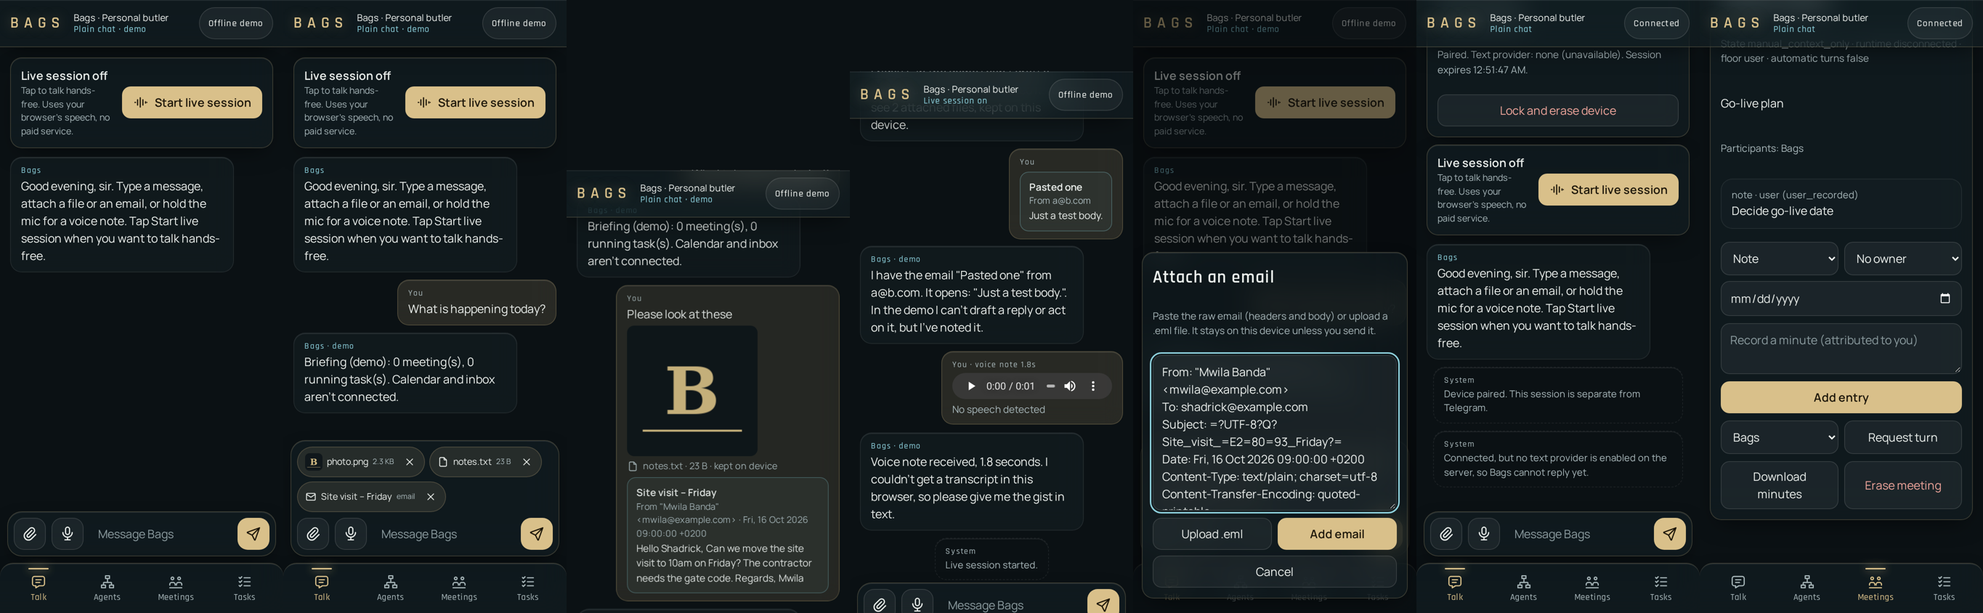
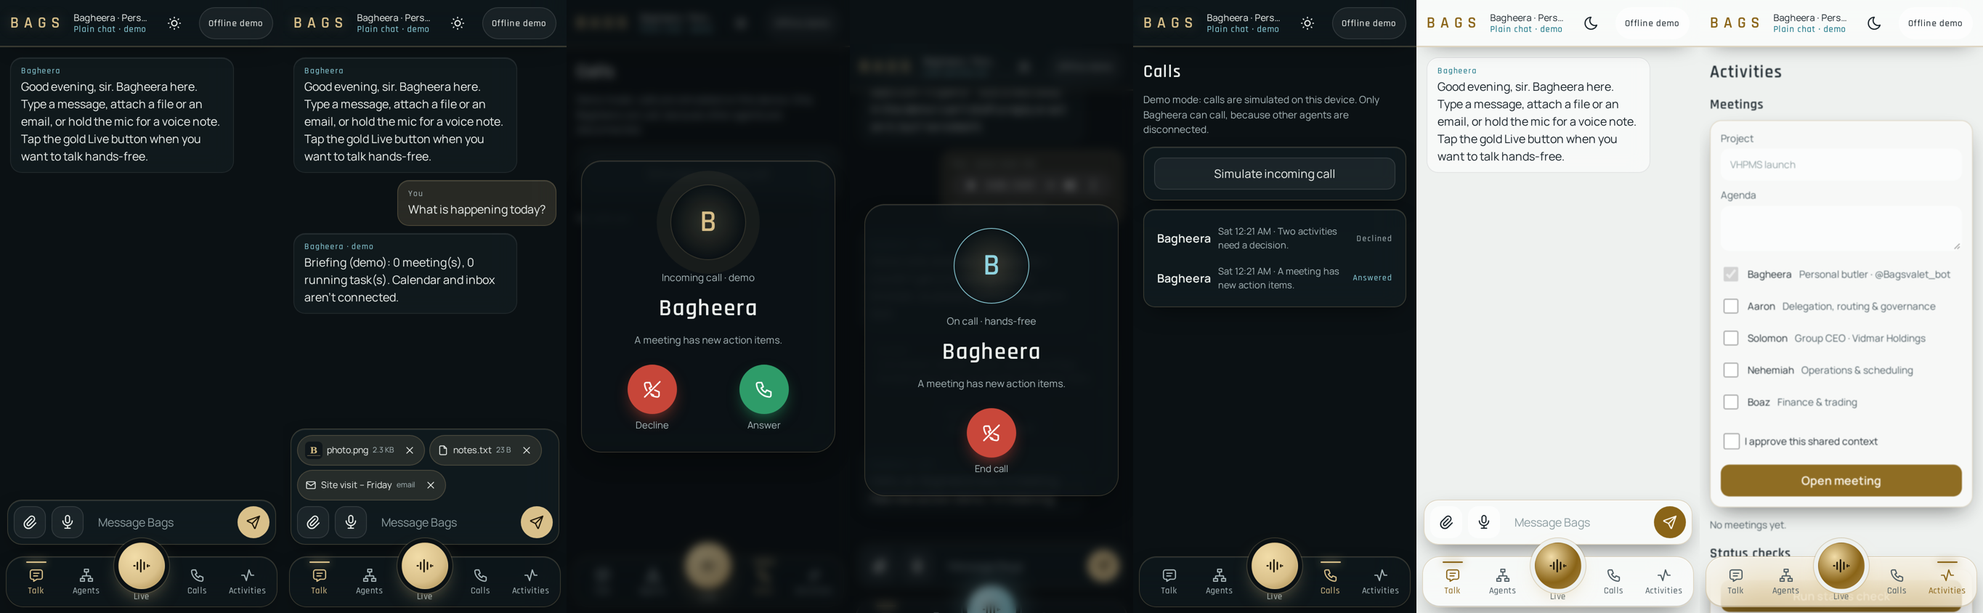
feat(valet): centre live button, Activities, light mode, Calls with answer/decline, Bagheera persona, CONNECTING.md

diff --git a/valet/static/app.js b/valet/static/app.js
@@ -1,4 +1,6 @@
 'use strict';
+/* theme: persisted, applied before paint */
+const root=document.documentElement;const setTheme=t=>{root.dataset.theme=t;localStorage.theme=t;const b=document.querySelector('#themeBtn');if(b){b.setAttribute('aria-label',t=='light'?'Switch to dark mode':'Switch to light mode');document.querySelector('#themeIcon').setAttribute('href',t=='light'?'#i-moon':'#i-sun')}};setTheme(localStorage.theme||'dark');
 const $=s=>document.querySelector(s),esc=t=>String(t??'').replace(/[&<>"']/g,c=>({'&':'&amp;','<':'&lt;','>':'&gt;','"':'&quot;',"'":'&#39;'}[c]));
 const kb=n=>n<1024?n+' B':n<1048576?(n/1024).toFixed(1)+' KB':(n/1048576).toFixed(1)+' MB';
 // Deployment base: served by the companion backend under /valet/, so the API lives one level up (keeps any /bags-mark/ proxy prefix).
@@ -30,7 +32,7 @@ function openWS(){if(B.mode!='server'||!B.token)return;closeWS();const w=new Web
  w.onopen=()=>w.send(JSON.stringify({type:'auth',token:B.token}));
  w.onmessage=ev=>{if(typeof ev.data!='string')return;const m=JSON.parse(ev.data);
   if(m.type=='ready'){B.wsReady=true;B.provider=m.provider;setConn();if(!m.provider?.capabilities?.text)sys('Connected, but no text provider is enabled on the server, so Bags cannot reply yet.')}
-  else if(m.type=='text'||m.type=='transcript.output'){botText(m.text,'Bags · '+(B.provider?.name||'server'))}
+  else if(m.type=='text'||m.type=='transcript.output'){botText(m.text,P.name+' · '+(B.provider?.name||'server'))}
   else if(m.type=='turn.complete'){flushBot()}
   else if(m.type=='error'){flushBot();sys(ERR[m.error]||('Server error: '+m.error))}};
  w.onclose=e=>{B.ws=null;B.wsReady=false;setConn();if(e.code==4401){B.token=null;setConn();sys('Session expired. Pair again.')}};
@@ -43,20 +45,20 @@ function flushBot(){clearTimeout(botTimer);if(!botBuf)return;const t=botBuf;botB
 /* ================= roster ================= */
 const sp=([id,name,role])=>({id,name,role,live:false});
 let roster=null;
-async function loadRoster(){if(B.mode=='server'&&B.token){const r=await http('api/agents');if(r.ok){roster=r.data.agents.map(a=>({id:a.id,name:a.name,role:a.role||a.route,live:a.id=='bags'}));tree();return}}roster=null;tree()}
+async function loadRoster(){if(B.mode=='server'&&B.token){const r=await http('api/agents');if(r.ok){roster=r.data.agents.map(a=>({id:a.id,name:a.id=='bags'?P.name:a.name,role:a.role||a.route,live:a.id=='bags'}));tree();return}}roster=null;tree()}
 const allAgents=()=>roster||[ORG.personal,ORG.governance,...ORG.ceos.flatMap(c=>[c,...c.specialists.map(sp)])];
 function tree(){const row=a=>`<button class="agent" data-id="${esc(a.id)}"><b>${esc(a.name)}</b><span class="r">${esc(a.role)}</span><span class="st ${a.live?'live':''}">${a.live?'Available':'Disconnected'}</span></button>`;
  $('#tree').innerHTML=roster?`<div class="glass unit">${roster.map(row).join('')}</div>`:`<div class="glass unit">${row(ORG.personal)}${row(ORG.governance)}</div>`+ORG.ceos.map(c=>`<div class="glass unit">${row(c)}<div class="sub">${c.specialists.map(s=>row(sp(s))).join('')}</div></div>`).join('');
  const all=allAgents();$('#tree').querySelectorAll('[data-id]').forEach(el=>el.onclick=()=>pick(all.find(a=>a.id==el.dataset.id)));
  $('#mParts').innerHTML=all.map(a=>`<label><input type="checkbox" value="${esc(a.id)}" ${a.id==all[0].id?'checked disabled':''}> ${esc(a.name)} <span class="note">${esc(a.role)}</span></label>`).join('')}
-let agent={...ORG.personal},logs={};
+const P={name:ORG.personal.name,short:ORG.personal.short||ORG.personal.name};let agent={...ORG.personal},logs={};
 async function pick(a){stopLive();if(B.mode=='server'&&B.token){const r=await http(`api/agents/${encodeURIComponent(a.id)}/session`,{method:'POST',body:{}});if(r.ok){B.token=r.data.token;openWS()}}
  agent=a;$('#agentHdr').textContent=a.name+' · '+a.role+(a.live?'':' (disconnected)');$('#msg').disabled=!a.live;$('#msg').placeholder=a.live?'Message '+a.name:a.name+' is disconnected';render();go('chat')}
 
 /* ================= bottom tab bar ================= */
 function go(tab){document.querySelectorAll('.tabbar button').forEach(b=>{const on=b.dataset.tab==tab;b.classList.toggle('on',on);on?b.setAttribute('aria-current','page'):b.removeAttribute('aria-current')});
  document.querySelectorAll('.tab').forEach(s=>s.classList.toggle('on',s.id==tab));document.body.classList.toggle('no-dock',tab!='chat');
- if(tab=='tasks')loadTasks();if(tab=='meet')loadMeetings();if(tab=='chat')scrollEnd();else scrollTo(0,0)}
+ if(tab=='act'){loadTasks();loadMeetings()}if(tab=='calls')renderCalls();if(tab=='chat')scrollEnd();else scrollTo(0,0)}
 document.querySelectorAll('.tabbar button').forEach(b=>b.onclick=()=>go(b.dataset.tab));
 
 /* ================= chat log ================= */
@@ -113,7 +115,7 @@ async function send(text,meta={}){text=(text||'').trim();const list=atts;if(!tex
  full=full.trim().slice(0,4096)||'[voice note with no transcript]';
  if(B.mode=='server'){if(!B.token)return sys('Pair this device first: tap the status button at the top.');if(!B.wsReady)return sys('Not connected to the server yet. Try again in a moment.');B.ws.send(JSON.stringify({type:'text',text:full}));return}
  const r=await mockApi('chat',{method:'POST',body:{text:full,...meta,files:files.length,emails:emails.map(e=>({subject:e.subject,from:e.from,body:e.body}))}});
- add('bot',r.data.reply,'Bags · demo');if(live.on||meta.voice)say(r.data.reply)}
+ add('bot',r.data.reply,P.name+' · demo');if(live.on||meta.voice)say(r.data.reply)}
 const strip=a=>({kind:a.kind,name:a.name,size:a.size,thumb:a.thumb,status:a.status,subject:a.subject,from:a.from,date:a.date,body:a.body||''});
 $('#composer').onsubmit=e=>{e.preventDefault();const t=$('#msg').value;$('#msg').value='';send(t);$('#msg').focus()};
 
@@ -125,10 +127,9 @@ function listen(){if(!live.on||live.speaking||!SR)return;const r=new SR();live.r
  r.onresult=e=>{let f='',p='';for(const x of e.results)x.isFinal?f+=x[0].transcript:p+=x[0].transcript;$('#partial').textContent=p;if(f.trim()){$('#partial').textContent='';send(f)}};
  r.onerror=e=>{if(e.error=='not-allowed'||e.error=='service-not-allowed'){stopLive();sys('Microphone permission denied, so the live session stopped. Typing still works.')}};
  r.onend=()=>{if(live.on&&!live.speaking)setTimeout(listen,300)};try{r.start()}catch{}}
-function paintLive(){$('.livebar').classList.toggle('on',live.on);$('#liveBtn span').textContent=live.on?'End live session':'Start live session';$('#liveBtn').setAttribute('aria-pressed',live.on);
- $('#liveTitle').textContent=live.on?'Live session on':'Live session off';$('#liveNote').textContent=live.on?'Listening. Speak, pause, and Bags answers aloud. The mic pauses while Bags talks.':"Tap to talk hands-free. Uses your browser's speech, no paid service.";setConn()}
-function startLive(){if(!SR){sys('This browser has no speech recognition, so a live session is not possible here. Try Chrome on Android. Typing and voice notes still work.');return}
- if(!agent.live)return sys(agent.name+' is disconnected.');live.on=true;paintLive();sys('Live session started.');listen()}
+function paintLive(){$('#liveBtn').setAttribute('aria-pressed',live.on);$('#liveBtn').setAttribute('aria-label',live.on?'End live session':'Start live session');$('#liveLbl').textContent=live.on?'End live':'Live';$('.fab-slot').classList.toggle('on',live.on);setConn()}
+function startLive(quiet){go('chat');if(!SR){sys('This browser has no speech recognition, so a live session is not possible here. Try Chrome on Android. Typing and voice notes still work.');return}
+ if(!agent.live)return sys(agent.name+' is disconnected.');live.on=true;paintLive();if(!quiet){sys('Live session started. Speak, pause, and '+P.short+' answers aloud. The mic pauses while '+P.short+' talks.');listen()}}
 function stopLive(){if(!live.on)return;live.on=false;try{live.rec&&live.rec.abort()}catch{}tts&&tts.cancel();live.speaking=false;$('#partial').textContent='';paintLive();sys('Live session ended.');B.ws?.readyState==1&&B.ws.send('{"type":"interrupt"}')}
 $('#liveBtn').onclick=()=>live.on?stopLive():startLive();
 document.addEventListener('visibilitychange',()=>{if(document.hidden){stopLive();if(mr)recStop(true)}});// sensors never keep running in background
@@ -179,8 +180,41 @@ async function openMeeting(id){const m=(await api('meetings/'+id)).data,P=m.part
 let cursor=0;
 $('#tStatus').onclick=async()=>{const r=await api('tasks',{method:'POST',body:{action:'server_status',confirmed:true}});if(!r.ok)sys(r.status==401?'Pair this device first.':'Task refused: '+(r.data.error||r.status));loadTasks()};
 async function loadTasks(){const r=await api('tasks');$('#tList').innerHTML=(r.data.tasks||[]).map(t=>`<div class="card"><b>${esc(t.action)}</b> · ${esc(t.status)}<div class="m">${esc(typeof t.result=='object'?JSON.stringify(t.result):t.result||'')}</div></div>`).join('')||'<p class="note">No tasks yet.</p>'}
-setInterval(async()=>{if(document.hidden||(B.mode=='server'&&!B.token)||B.mode=='detecting')return;const r=await api('events?after='+cursor);if(!r.ok)return;for(const e of r.data.events||[]){sys(e.speech||e.type);if($('#tSpeak').checked)say(e.speech||'Task finished.');loadTasks()}cursor=r.data.next_cursor??cursor},3000);
+setInterval(async()=>{if(document.hidden||(B.mode=='server'&&!B.token)||B.mode=='detecting')return;const r=await api('events?after='+cursor);if(!r.ok)return;for(const e of r.data.events||[]){if(e.type=='call.incoming'){incoming({from:e.agent_id||'bags',why:e.speech||'',source:'server'});continue}sys(e.speech||e.type);if($('#tSpeak').checked)say(e.speech||'Task finished.');loadTasks()}cursor=r.data.next_cursor??cursor},3000);
+
+$('#themeBtn').onclick=()=>setTheme(root.dataset.theme=='light'?'dark':'light');document.querySelector('meta[name=theme-color]');
+
+/* ================= calls: incoming agent calls, answer starts a voice conversation ================= */
+// Companion backend today emits only task.completed / task.failed events. A 'call.incoming' event
+// ({type:'call.incoming',agent_id,speech}) is handled here if the server ever sends one; until then calls are demo-only.
+let calls=JSON.parse(localStorage.valetCalls||'[]'),ringing=null,inCall=null;
+const saveCalls=()=>{localStorage.valetCalls=JSON.stringify(calls.slice(0,50))};
+const REASONS=['Your evening briefing is ready.','Two activities need a decision.','A meeting has new action items.','Quick check-in on today.'];
+let ac;function ringTone(on){try{if(!on){ac&&ac.close();ac=null;return}ac=new (window.AudioContext||window.webkitAudioContext)();const o=ac.createOscillator(),g=ac.createGain();o.frequency.value=660;o.connect(g);g.connect(ac.destination);g.gain.value=0;o.start();
+ const t=ac.currentTime;for(let i=0;i<30;i++){g.gain.setValueAtTime(0,t+i*2);g.gain.linearRampToValueAtTime(.06,t+i*2+.05);g.gain.setValueAtTime(.06,t+i*2+.8);g.gain.linearRampToValueAtTime(0,t+i*2+.9)}}catch{}}
+function callAgent(id){return allAgents().find(a=>a.id==id)||ORG.personal}
+function incoming(c){if(ringing||inCall)return;const a=callAgent(c.from);if(!a.live){calls.unshift({id:Date.now(),from:a.id,name:a.name,at:Date.now(),status:'missed',note:'agent disconnected'});saveCalls();return}
+ ringing={id:Date.now(),from:a.id,name:a.name,at:Date.now(),why:c.why||REASONS[Math.floor(Math.random()*REASONS.length)],source:c.source||'demo'};
+ $('#callWho').textContent=a.name;$('#callAvatar').textContent=a.name[0];$('#callState').textContent='Incoming call'+(ringing.source=='demo'?' · demo':'');$('#callWhy').textContent=ringing.why;
+ $('#callSheet').classList.remove('live');$('#answerBtn').parentElement.hidden=false;$('#declineBtn').setAttribute('aria-label','Decline call');$('#declineBtn').nextElementSibling.textContent='Decline';
+ $('#callSheet').hidden=false;$('#answerBtn').focus();ringTone(true);navigator.vibrate&&navigator.vibrate([400,200,400]);
+ ringing.timer=setTimeout(()=>endRing('missed'),30000)}
+function endRing(status){if(!ringing)return;clearTimeout(ringing.timer);ringTone(false);navigator.vibrate&&navigator.vibrate(0);
+ const c={id:ringing.id,from:ringing.from,name:ringing.name,at:ringing.at,status,why:ringing.why};calls.unshift(c);saveCalls();ringing=null;
+ if(status!='answered')$('#callSheet').hidden=true;$('#callBadge').hidden=!calls.some(x=>x.status=='missed'&&!x.seen);renderCalls();return c}
+$('#declineBtn').onclick=()=>{if(inCall){hangUp();return}endRing('declined')};
+$('#answerBtn').onclick=()=>{const c=endRing('answered');inCall=c;const a=callAgent(c.from);if(a.id!=agent.id)pick(a);
+ $('#callSheet').classList.add('live');$('#callState').textContent='On call · hands-free';$('#answerBtn').parentElement.hidden=true;$('#declineBtn').setAttribute('aria-label','End call');$('#declineBtn').nextElementSibling.textContent='End call';
+ const hello=`Hello, sir. ${a.name} here. ${c.why} I'm listening.`;add('bot',hello,a.name+' · call');startLive(true);say(hello)};
+function hangUp(){inCall=null;$('#callSheet').hidden=true;stopLive()}
+function renderCalls(){calls.forEach(c=>c.seen=true);saveCalls();$('#callBadge').hidden=true;
+ $('#callNote').textContent=B.mode=='server'?'Live calls need a call.incoming event from the server, which the companion does not send yet. Simulated calls work for testing.':'Demo mode: calls are simulated on this device. Only '+P.name+' can call, because other agents are disconnected.';
+ $('#callLog').innerHTML=calls.length?`<div class="glass unit calllog">${calls.map(c=>`<button class="agent" data-c="${c.id}"><b>${esc(c.name)}</b><span class="r">${new Date(c.at).toLocaleString([], {weekday:'short',hour:'2-digit',minute:'2-digit'})}${c.why?' · '+esc(c.why):''}</span><span class="st ${c.status}">${c.status=='missed'?'Missed':c.status=='answered'?'Answered':'Declined'}</span></button>`).join('')}</div>`:'<p class="note">No calls yet.</p>';
+ $('#callLog').querySelectorAll('[data-c]').forEach(b=>b.onclick=()=>{const c=calls.find(x=>x.id==b.dataset.c);pick(callAgent(c.from))})}
+$('#simCall').onclick=()=>setTimeout(()=>incoming({from:ORG.personal.id,source:'demo'}),600);
 
 /* ================= boot: plain chat, greeting, nothing live ================= */
-tree();paintLive();add('bot','Good evening, sir. Type a message, attach a file or an email, or hold the mic for a voice note. Tap Start live session when you want to talk hands-free.','Bags');
-detect().then(()=>{if(B.mode=='mock')mockApi('events?after=0').then(r=>cursor=r.data.next_cursor||0)});
+$('#agentHdr').textContent=P.name+' · '+ORG.personal.role;
+tree();paintLive();add('bot',`Good evening, sir. ${P.name} here. Type a message, attach a file or an email, or hold the mic for a voice note. Tap the gold Live button when you want to talk hands-free.`,P.name);
+detect().then(()=>{if(B.mode=='mock'){mockApi('events?after=0').then(r=>cursor=r.data.next_cursor||0);if(!sessionStorage.demoCall){sessionStorage.demoCall=1;setTimeout(()=>incoming({from:ORG.personal.id,source:'demo'}),25000)}}});
+$('#callBadge').hidden=!calls.some(x=>x.status=='missed'&&!x.seen);

diff --git a/valet/static/app.css b/valet/static/app.css
@@ -7,13 +7,13 @@
 @font-face{font-family:Manrope;src:url(fonts/manrope-600.ttf);font-weight:600;font-display:swap}
 :root{color-scheme:dark;--bg:#0b1114;--ink:#edf1ee;--muted:#a9b8bb;--accent:#d9c08a;--accent-ink:#1a1408;--cyan:#8fd3df;--danger:#f0a69c;
  --glass:rgba(22,32,37,.52);--glass-hi:rgba(255,255,255,.09);--edge:rgba(217,192,138,.22);--r:16px;--ease:cubic-bezier(.16,1,.3,1);
- --tabh:64px;--dockh:64px}
+ --tabh:72px;--field:rgba(255,255,255,.05);--glass-strong:rgba(16,24,28,.62);--bgimg:radial-gradient(120% 80% at 50% 0%,#14232a 0%,#0b1114 60%);--dockh:64px}
 *{box-sizing:border-box;-webkit-tap-highlight-color:transparent}
 html,body{margin:0;min-height:100dvh;background:var(--bg);color:var(--ink);font:400 1rem/1.5 Manrope,system-ui,sans-serif}
 ::selection{background:var(--accent);color:var(--accent-ink)} ::placeholder{color:#8d9da1} input,textarea{caret-color:var(--accent)}
 :focus-visible{outline:2px solid var(--cyan);outline-offset:2px}
 *{scrollbar-width:thin;scrollbar-color:rgba(217,192,138,.35) transparent}
-.bg{position:fixed;inset:0;z-index:-1;overflow:hidden;pointer-events:none;background:radial-gradient(120% 80% at 50% 0%,#14232a 0%,var(--bg) 60%)}
+.bg{position:fixed;inset:0;z-index:-1;overflow:hidden;pointer-events:none;background:var(--bgimg)}
 .orb{position:absolute;border-radius:50%;filter:blur(60px);opacity:.55}
 .orb.a{width:60vmax;height:60vmax;left:-25vmax;top:-20vmax;background:radial-gradient(circle,rgba(143,211,223,.28),transparent 65%)}
 .orb.b{width:55vmax;height:55vmax;right:-25vmax;bottom:-15vmax;background:radial-gradient(circle,rgba(217,192,138,.22),transparent 65%)}
@@ -25,7 +25,7 @@ html,body{margin:0;min-height:100dvh;background:var(--bg);color:var(--ink);font:
 .mark{font:600 1.35rem/1 Rajdhani,sans-serif;letter-spacing:.32em;color:var(--accent);text-shadow:0 0 18px rgba(217,192,138,.35)}
 .who{flex:1;min-width:0;display:flex;flex-direction:column;font-size:.8rem;line-height:1.3}.who #agentHdr{white-space:nowrap;overflow:hidden;text-overflow:ellipsis}
 .status{color:var(--cyan);font:500 .78rem Rajdhani,sans-serif;letter-spacing:.08em}
-button,input,textarea,select{font:inherit;color:var(--ink);min-height:44px;border-radius:12px;border:1px solid rgba(255,255,255,.12);background:rgba(255,255,255,.05)}
+button,input,textarea,select{font:inherit;color:var(--ink);min-height:44px;border-radius:12px;border:1px solid rgba(255,255,255,.12);background:var(--field)}
 button{cursor:pointer;padding:8px 14px;transition:transform .25s var(--ease),background .25s var(--ease),border-color .25s}
 button:active{transform:scale(.96)} button:disabled{opacity:.45;cursor:not-allowed}
 input,textarea,select{padding:10px 12px;width:100%}
@@ -87,3 +87,51 @@ body.no-dock .dock{display:none}
 .att{display:flex;align-items:center;gap:6px;font-size:.8rem;color:var(--muted);margin-top:4px}.att svg{width:16px;height:16px}.att img{max-width:180px;border-radius:10px;display:block}
 .chip span#conn{font:500 .8rem Rajdhani,sans-serif;letter-spacing:.06em}
 .dock input{width:auto;flex:1 1 0}.dock .chips{order:-1}
+
+/* ---------- light theme (persisted). Same glass system, daylight tokens. ---------- */
+:root[data-theme=light]{color-scheme:light;--bg:#eef1ef;--ink:#152027;--muted:#4c5b62;--accent:#8a6417;--accent-ink:#fffaf0;--cyan:#0f6f80;--danger:#b23a2c;
+ --glass:rgba(255,255,255,.55);--glass-hi:rgba(255,255,255,.9);--edge:rgba(138,100,23,.25);--field:rgba(255,255,255,.6);--glass-strong:rgba(255,255,255,.62);
+ --bgimg:radial-gradient(120% 80% at 50% 0%,#ffffff 0%,#e7ece9 55%,#dfe6e3 100%)}
+:root[data-theme=light] .orb.a{background:radial-gradient(circle,rgba(15,111,128,.22),transparent 65%)}
+:root[data-theme=light] .orb.b{background:radial-gradient(circle,rgba(138,100,23,.2),transparent 65%)}
+:root[data-theme=light] .b.sys{border-color:rgba(21,32,39,.2)} :root[data-theme=light] .rechint{background:rgba(255,255,255,.95)}
+:root[data-theme=light] .mark{text-shadow:none} :root[data-theme=light] .sheet{background:rgba(200,210,206,.5)}
+:root[data-theme=light] .b,.card{border-color:rgba(21,32,39,.1)} :root[data-theme=light] .ring{border-color:rgba(15,111,128,.12)}
+/* ---------- stronger glass for the top and bottom bars ---------- */
+.glass-strong{background:var(--glass-strong);-webkit-backdrop-filter:blur(28px) saturate(180%);backdrop-filter:blur(28px) saturate(180%);
+ box-shadow:inset 0 1px 0 var(--glass-hi),inset 0 -1px 0 rgba(0,0,0,.18),0 18px 40px -16px rgba(0,0,0,.55)}
+.top.glass-strong{box-shadow:inset 0 -1px 0 var(--edge),0 10px 30px -18px rgba(0,0,0,.6)}
+.ghost{background:transparent;border-color:transparent}
+.icon.ghost{width:44px;height:44px}
+/* ---------- tab bar with raised centre live button ---------- */
+.tabbar{grid-template-columns:minmax(0,1fr) minmax(0,1fr) 84px minmax(0,1fr) minmax(0,1fr);align-items:end;left:8px;right:8px;bottom:8px;border-radius:24px;border-width:1px;padding:6px 6px calc(6px + env(safe-area-inset-bottom)/2);max-width:640px;margin:auto}
+.tabbar button{position:relative}
+.fab-slot{display:flex;flex-direction:column;align-items:center;gap:2px;font:500 .78rem Rajdhani,sans-serif;letter-spacing:.06em;color:var(--muted)}
+.tabbar .fab{width:64px;height:64px;margin-top:-34px;border-radius:50%;padding:0;display:grid;place-items:center;border:1px solid var(--edge);
+ background:radial-gradient(circle at 35% 30%,#f1dca8,var(--accent) 60%,#a6874a);color:#1a1408;
+ box-shadow:0 0 0 6px var(--bg),0 0 0 7px var(--edge),0 12px 28px -6px rgba(217,192,138,.6);transition:transform .35s var(--ease),box-shadow .35s var(--ease)}
+.tabbar .fab svg{width:28px;height:28px}
+.tabbar .fab[aria-pressed=true]{background:radial-gradient(circle at 35% 30%,#c9f1f7,var(--cyan) 60%,#3c8b97);box-shadow:0 0 0 6px var(--bg),0 0 0 7px rgba(143,211,223,.6),0 0 34px 2px rgba(143,211,223,.55);animation:breathe 2.4s var(--ease) infinite}
+@keyframes breathe{50%{transform:scale(1.06)}}
+.fab-slot.on span{color:var(--cyan)}
+.badge{position:absolute;top:6px;left:calc(50% + 6px);min-width:9px;height:9px;border-radius:50%;background:var(--danger);box-shadow:0 0 8px var(--danger)}
+.dock{bottom:calc(var(--tabh) + 22px + env(safe-area-inset-bottom))}
+main{padding-bottom:calc(var(--tabh) + var(--dockh) + 44px + env(safe-area-inset-bottom))}
+.round{border-radius:50%!important}
+h3{font:600 1.15rem Rajdhani,sans-serif;letter-spacing:.05em;margin:18px 0 4px}
+/* ---------- calls ---------- */
+.callsheet{position:fixed;inset:0;z-index:30;display:grid;place-items:center;padding:20px;background:rgba(5,8,10,.5);-webkit-backdrop-filter:blur(6px);backdrop-filter:blur(6px)}
+:root[data-theme=light] .callsheet{background:rgba(220,228,225,.5)}
+.callcard{width:min(360px,100%);border-radius:28px;padding:32px 20px 26px;text-align:center;animation:in .5s var(--ease)}
+.callcard h2{font-size:2rem;margin:4px 0}
+.avatar{width:104px;height:104px;margin:0 auto 14px;border-radius:50%;display:grid;place-items:center;font:600 2.6rem Rajdhani,sans-serif;color:var(--accent);
+ background:radial-gradient(circle,rgba(217,192,138,.18),transparent 70%);border:1px solid var(--edge);box-shadow:0 0 0 0 rgba(217,192,138,.45);animation:ringpulse 1.6s var(--ease) infinite}
+.callsheet.live .avatar{animation:none;border-color:var(--cyan);color:var(--cyan)}
+@keyframes ringpulse{70%{box-shadow:0 0 0 22px rgba(217,192,138,0)}100%{box-shadow:0 0 0 0 rgba(217,192,138,0)}}
+.callbtns{display:flex;justify-content:space-around;margin-top:24px}.callbtns>div{display:grid;justify-items:center;gap:6px;font-size:.82rem;color:var(--muted)}
+.round.answer,.round.decline{width:68px;height:68px;padding:0;display:grid;place-items:center;border:0;color:#fff}
+.round.answer{background:#2f9e6a;box-shadow:0 10px 24px -8px rgba(47,158,106,.8)}.round.decline{background:#c9473a;box-shadow:0 10px 24px -8px rgba(201,71,58,.8)}
+.round.answer svg,.round.decline svg{width:28px;height:28px}
+.calllog .agent .st.missed{color:var(--danger)}.calllog .agent .st.answered{color:var(--cyan)}.calllog .agent .st.declined{color:var(--muted)}
+@media (prefers-reduced-motion:reduce){.fab[aria-pressed=true],.avatar{animation:none!important}}
+@media (prefers-reduced-transparency:reduce){.glass-strong{background:var(--bg);backdrop-filter:none;-webkit-backdrop-filter:none}}

diff --git a/valet/static/index.html b/valet/static/index.html
@@ -15,20 +15,27 @@
 <symbol id="i-mail" viewBox="0 0 24 24"><path d="M3 7a2 2 0 0 1 2-2h14a2 2 0 0 1 2 2v10a2 2 0 0 1-2 2H5a2 2 0 0 1-2-2zM3 7l9 6 9-6"/></symbol>
 <symbol id="i-file" viewBox="0 0 24 24"><path d="M14 3v4a1 1 0 0 0 1 1h4M17 21H7a2 2 0 0 1-2-2V5a2 2 0 0 1 2-2h7l5 5v11a2 2 0 0 1-2 2z"/></symbol>
 <symbol id="i-x" viewBox="0 0 24 24"><path d="M18 6 6 18M6 6l12 12"/></symbol>
+<symbol id="i-phone" viewBox="0 0 24 24"><path d="M5 4h4l2 5-2.5 1.5a11 11 0 0 0 5 5L15 13l5 2v4a2 2 0 0 1-2 2A16 16 0 0 1 3 6a2 2 0 0 1 2-2"/></symbol>
+<symbol id="i-phone-off" viewBox="0 0 24 24"><path d="M3 21 21 3M5.6 13.5A16 16 0 0 1 3 6a2 2 0 0 1 2-2h4l2 5-2.5 1.5c.4.8.9 1.6 1.5 2.3M10.3 17.4c1 .6 2 1 3.1 1.3"/><path d="M15 13l5 2v4a2 2 0 0 1-2 2c-2.4-.1-4.7-.8-6.7-1.9"/></symbol>
+<symbol id="i-sun" viewBox="0 0 24 24"><path d="M8 12a4 4 0 1 0 8 0a4 4 0 1 0-8 0M3 12h1M20 12h1M12 3v1M12 20v1M5.6 5.6l.7.7M17.7 17.7l.7.7M5.6 18.4l.7-.7M17.7 6.3l.7-.7"/></symbol>
+<symbol id="i-moon" viewBox="0 0 24 24"><path d="M12 3h.4a7.5 7.5 0 0 0 8.6 11.8A9 9 0 1 1 12 3z"/></symbol>
+<symbol id="i-activity" viewBox="0 0 24 24"><path d="M3 12h4l3 8 4-16 3 8h4"/></symbol>
 <symbol id="i-wave" viewBox="0 0 24 24"><path d="M3 12h1M7 8v8M11 5v14M15 8v8M19 11v2M21 12h0"/></symbol>
 </svg>
-<header class="glass top"><div class="mark" aria-label="Bags">BAGS</div><div class="who"><span id="agentHdr">Bags · Personal butler</span><span id="provider" class="status">Plain chat</span></div>
+<header class="glass glass-strong top"><div class="mark" aria-hidden="true">BAGS</div><div class="who"><span id="agentHdr">Personal butler</span><span id="provider" class="status">Plain chat</span></div>
+<button id="themeBtn" class="icon ghost" aria-label="Switch to light mode"><svg><use id="themeIcon" href="#i-sun"/></svg></button>
 <button id="connBtn" class="chip" aria-controls="connPanel" aria-expanded="false"><span id="conn">Checking</span></button></header>
 <main>
 <section id="chat" class="tab on" aria-label="Talk">
 <div id="connPanel" class="glass panel" hidden><h2>Connection</h2><p class="note" id="connNote"></p>
 <form id="pairForm" class="row" hidden><input id="pairCode" type="password" autocomplete="off" placeholder="One-time pairing code" aria-label="One-time pairing code"><button class="primary">Pair device</button></form>
 <button id="lockBtn" class="danger" hidden>Lock and erase device</button></div>
-<div class="livebar glass"><div><b id="liveTitle">Live session off</b><span id="liveNote" class="note">Tap to talk hands-free. Uses your browser's speech, no paid service.</span></div><button id="liveBtn" class="primary" aria-pressed="false"><svg><use href="#i-wave"/></svg><span>Start live session</span></button></div><div id="log" aria-live="polite"></div><div id="partial" class="partial" aria-live="polite"></div></section>
+<div id="log" aria-live="polite"></div><div id="partial" class="partial" aria-live="polite"></div></section>
 <section id="org" class="tab" aria-label="Agents"><h2>Agents</h2><p class="note">Only Bags answers, on the local mock. Every other agent shows as disconnected until a real agent bridge exists.</p><div id="tree"></div></section>
-<section id="meet" class="tab" aria-label="Meetings"><h2>Meetings</h2><div class="glass panel"><label>Project<input id="mProject" placeholder="VHPMS launch"></label><label>Agenda<textarea id="mAgenda" rows="2"></textarea></label>
-<div class="participant-list" id="mParts"></div><label class="pref"><input type="checkbox" id="mOk"> I approve this shared context</label><button id="mCreate" class="primary">Open meeting</button></div><div id="mList"></div><div id="mView"></div></section>
-<section id="tasks" class="tab" aria-label="Tasks"><h2>Tasks</h2><div class="glass panel"><button id="tStatus" class="primary">Run status check</button><label class="pref"><input type="checkbox" id="tSpeak"> Speak completions</label></div><div id="tList"></div></section>
+
+<section id="act" class="tab" aria-label="Activities"><h2>Activities</h2><div id="meet"><h3>Meetings</h3><div class="glass panel"><label>Project<input id="mProject" placeholder="VHPMS launch"></label><label>Agenda<textarea id="mAgenda" rows="2"></textarea></label>
+<div class="participant-list" id="mParts"></div><label class="pref"><input type="checkbox" id="mOk"> I approve this shared context</label><button id="mCreate" class="primary">Open meeting</button></div><div id="mList"></div><div id="mView"></div></div><div id="tasks"><h3>Status checks</h3><div class="glass panel"><button id="tStatus" class="primary">Run status check</button><label class="pref"><input type="checkbox" id="tSpeak"> Speak completions</label></div><div id="tList"></div></div></section>
+<section id="calls" class="tab" aria-label="Calls"><h2>Calls</h2><p class="note" id="callNote"></p><div class="glass panel"><button id="simCall">Simulate incoming call</button></div><div id="callLog"></div></section>
 </main>
 <form id="composer" class="glass dock" autocomplete="off">
 <div id="chips" class="chips" aria-live="polite"></div>
@@ -37,14 +44,17 @@
 <button type="button" id="attach" class="icon" aria-label="Attach" aria-expanded="false"><svg><use href="#i-clip"/></svg></button>
 <button type="button" id="rec" class="icon mic" aria-label="Hold to record a voice note"><svg><use href="#i-mic"/></svg></button>
 <input id="msg" maxlength="4096" placeholder="Message Bags" enterkeyhint="send" aria-label="Message">
-<button id="sendBtn" class="icon send" aria-label="Send"><svg><use href="#i-send"/></svg></button>
+<button id="sendBtn" class="icon send round" aria-label="Send"><svg><use href="#i-send"/></svg></button>
 
 <div id="recHint" class="rechint" hidden><span class="dot"></span><span id="recTime">0:00</span> Recording. Release to send, slide away to cancel.</div>
 </form>
 <div id="emailSheet" class="sheet" hidden><div class="glass panel"><h2>Attach an email</h2><p class="note">Paste the raw email (headers and body) or upload a .eml file. It stays on this device unless you send it.</p><textarea id="emlText" rows="8" placeholder="From: ...&#10;Subject: ...&#10;&#10;Body"></textarea><div class="row"><button type="button" id="emlUpload">Upload .eml</button><button type="button" id="emlAdd" class="primary">Add email</button><button type="button" id="emlCancel">Cancel</button></div></div></div>
-<nav class="glass tabbar" aria-label="Sections">
+<nav class="glass glass-strong tabbar" aria-label="Sections">
 <button data-tab="chat" class="on" aria-current="page"><svg><use href="#i-chat"/></svg><span>Talk</span></button>
 <button data-tab="org"><svg><use href="#i-org"/></svg><span>Agents</span></button>
-<button data-tab="meet"><svg><use href="#i-meet"/></svg><span>Meetings</span></button>
-<button data-tab="tasks"><svg><use href="#i-task"/></svg><span>Tasks</span></button></nav>
+<div class="fab-slot"><button id="liveBtn" class="fab" aria-pressed="false" aria-label="Start live session"><svg><use href="#i-wave"/></svg></button><span id="liveLbl">Live</span></div>
+<button data-tab="calls"><svg><use href="#i-phone"/></svg><span>Calls</span><i id="callBadge" class="badge" hidden></i></button>
+<button data-tab="act"><svg><use href="#i-activity"/></svg><span>Activities</span></button></nav>
+<div id="callSheet" class="callsheet" hidden role="dialog" aria-modal="true" aria-labelledby="callWho"><div class="glass glass-strong callcard"><div class="avatar" id="callAvatar">B</div><p class="note" id="callState">Incoming call</p><h2 id="callWho">Bags</h2><p class="note" id="callWhy"></p>
+<div class="callbtns"><div><button id="declineBtn" class="round decline" aria-label="Decline call"><svg><use href="#i-phone-off"/></svg></button><span>Decline</span></div><div><button id="answerBtn" class="round answer" aria-label="Answer call"><svg><use href="#i-phone"/></svg></button><span>Answer</span></div></div></div></div>
 <script src="mock.js"></script><script src="agents.js"></script><script src="app.js"></script></body></html>

diff --git a/valet/static/sw.js b/valet/static/sw.js
@@ -1,5 +1,5 @@
 // Network first so updates always show; cache is only the offline fallback.
-const C='valet-v3',A=['./','index.html','app.css','app.js','agents.js','mock.js','manifest.webmanifest','icon-192.png','icon-512.png','fonts/rajdhani-500.ttf','fonts/rajdhani-600.ttf','fonts/manrope-400.ttf','fonts/manrope-600.ttf'];
+const C='valet-v4',A=['./','index.html','app.css','app.js','agents.js','mock.js','manifest.webmanifest','icon-192.png','icon-512.png','fonts/rajdhani-500.ttf','fonts/rajdhani-600.ttf','fonts/manrope-400.ttf','fonts/manrope-600.ttf'];
 self.addEventListener('install',e=>{e.waitUntil(caches.open(C).then(c=>c.addAll(A)));self.skipWaiting()});
 self.addEventListener('activate',e=>e.waitUntil(caches.keys().then(k=>Promise.all(k.filter(x=>x!==C).map(x=>caches.delete(x)))).then(()=>self.clients.claim())));
 self.addEventListener('fetch',e=>{const u=new URL(e.request.url);if(e.request.method!='GET'||u.origin!=location.origin||/\/(api|health)(\/|$)/.test(u.pathname))return;

diff --git a/valet/static/agents.js b/valet/static/agents.js
@@ -1,6 +1,6 @@
 // Org chart from vidmarholdings AGENTS.md. Specialist-to-CEO grouping is PROPOSED (AGENTS.md lists specialists flat) — confirm with Shadrick.
 window.ORG={
- personal:{id:'bagheera_butler.agent',name:'Bags',role:'Personal butler',live:true},
+ personal:{id:'bagheera_butler.agent',name:'Bagheera',short:'Bags',role:'Personal butler · @Bagsvalet_bot',live:true},
  governance:{id:'aaron_delegate.agent',name:'Aaron',role:'Delegation, routing & governance'},
  ceos:[
   {id:'solomon_ceo.agent',name:'Solomon',role:'Group CEO · Vidmar Holdings',specialists:[

diff --git a/valet/CONNECTING.md b/valet/CONNECTING.md
@@ -1,0 +1,50 @@
+# Connecting the Valet app to Bagheera for real
+
+Today the app runs in two modes:
+- **Demo** (no server found): replies, calls and status checks are simulated in the browser.
+- **Companion** (served by `python -m companion` on this branch at `/valet/`): pairing, live text socket,
+  uploads, activities (tasks/events) and meetings are real. Tested on a box with `--text-provider none`.
+
+Bagheera only *answers* once two server-side things exist. Both are VPS work, so they go through Bags,
+and both need Shadrick's go-ahead.
+
+## 1. Text provider (Bagheera's brain), no new spend
+Uses the Codex subscription Shadrick already pays for, via the official CLI (no keys in the app).
+```sh
+cd ~/Bags-Mark-LIII && git fetch && git checkout feature/valet-pwa
+uv venv .venv && uv pip install --python .venv/bin/python -r requirements-companion.txt
+codex --version            # must already be logged in with the existing subscription; never copy auth files
+.venv/bin/python -m unittest discover -s tests
+.venv/bin/python -m companion serve --text-provider codex --port 8768 \
+    --origin https://<YOUR-DOMAIN> --root-path /bags-mark      # run under pm2 or systemd
+```
+Optional real roster: `.venv/bin/python -m companion sync-agents --company <PAPERCLIP_COMPANY_UUID>`, then restart.
+
+## 2. Public HTTPS route (so the phone can reach it)
+The service binds to 127.0.0.1:8768 only. An admin adds a TLS reverse proxy, for example in nginx:
+```nginx
+location /bags-mark/ {
+    proxy_pass http://127.0.0.1:8768/;
+    proxy_http_version 1.1;
+    proxy_set_header Upgrade $http_upgrade;      # WebSocket for /api/live
+    proxy_set_header Connection "upgrade";
+    proxy_set_header Host $host;
+    proxy_read_timeout 120s;
+}
+```
+Then `sudo nginx -t && sudo systemctl reload nginx`.
+
+## 3. Pair the phone
+1. Open `https://<YOUR-DOMAIN>/bags-mark/valet/` on the phone and choose Add to Home Screen.
+2. On the server, run `.venv/bin/python -m companion pair` in a private terminal (the code lasts 5 minutes).
+3. In the app, tap the status chip at the top, enter the code and tap **Pair device**. The chip should read **Connected**.
+   The session lasts one hour, and there is no refresh, so pair again after that.
+
+## Known gaps (not solved by the steps above)
+- **Hermes @Bagsvalet_bot:** the companion's Bagheera is a *separate session*, not the Telegram runtime,
+  so it doesn't share Telegram memory. A bridge from the companion to the Hermes profile is separate, reviewed work.
+- **Incoming calls:** the companion only emits `task.completed` / `task.failed` events. The app already handles
+  `{"type":"call.incoming","agent_id":"bags","speech":"<reason>"}` on `GET /api/events`, but no server code emits it yet.
+  Calls are demo-only until something adds that event (e.g. a scheduled briefing in `companion/tasks.py`).
+- **Voice:** live session and calls use the phone browser's Web Speech API (dictation plus spoken replies), not
+  realtime server audio. Other agents stay **disconnected** until a real agent runtime bridge exists.

diff --git a/valet/README.md b/valet/README.md
@@ -10,7 +10,9 @@ Installable phone app for Bags, built on the `feature/mobile-companion` backend 
   `/api/meetings/*`, `DELETE /api/device`. Bearer token is kept in memory only.
 - With no companion server (e.g. static hosting, `python3 valet/server.py`), it runs an in-browser demo.
 
-Opens as a plain chat. Live (hands-free) session starts only when you tap **Start live session**
+See CONNECTING.md for the exact server steps that make Bagheera answer for real.
+
+Opens as a plain chat. The raised centre button in the tab bar starts or ends the live (hands-free) session; tabs are Talk, Agents, Calls and Activities (meetings plus status checks). Light or dark theme, saved on the device. Calls: incoming agent calls with answer or decline; answering starts a spoken hands-free conversation (demo-simulated until the server emits call.incoming).
 (browser Web Speech API: dictation plus spoken replies, not full duplex). Composer: text, attach any
 file (chips; server accepts JPEG/PNG/text/PDF up to 2 MB, others stay on device), attach an email
 (paste or .eml, shown as a card; its text is shared as message context), hold-to-record voice notes.
